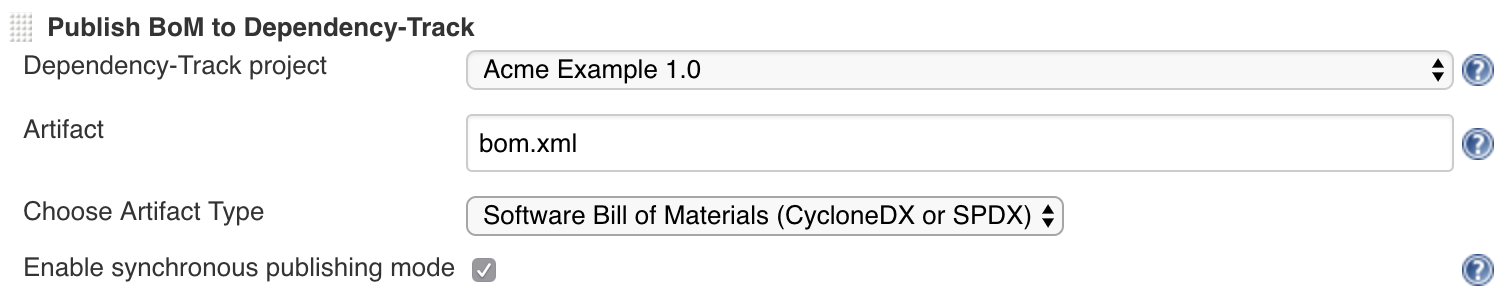
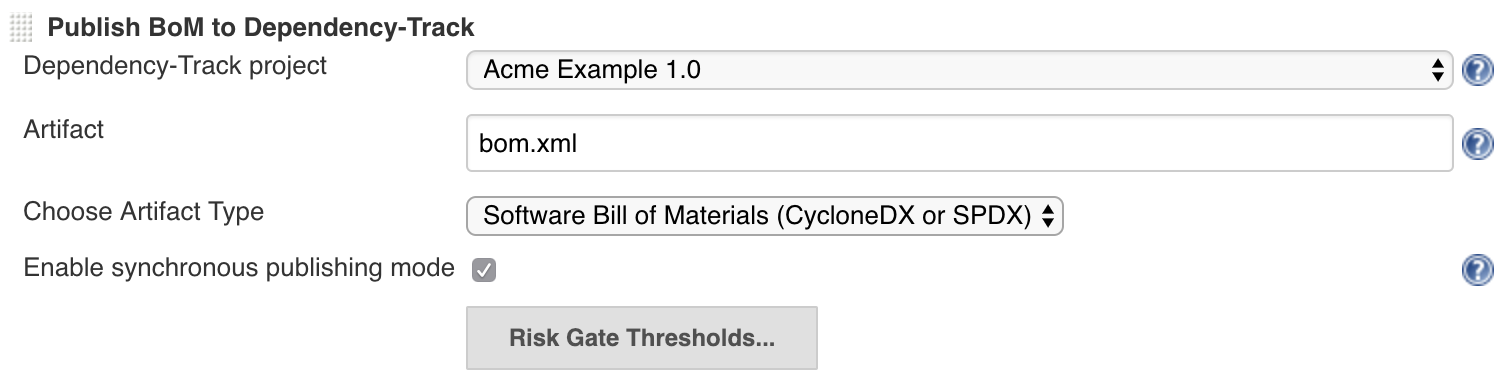
Updated docs for Jenkins 2.1.0 plugin

diff --git a/docs/_docs/integrations/jenkins.md b/docs/_docs/integrations/jenkins.md
@@ -20,7 +20,7 @@ displaying interactive job trends and per build findings.
 ### Job Configuration
 Once configured with a valid URL and API key, simply configure a job to publish the artifact.
 
-![System Configuration](/images/screenshots/jenkins-job-publish.png)
+![Job Publish Config](/images/screenshots/jenkins-job-publish.png)
 
 * **Dependency-Track project**: Specifies the unique project ID to upload scan results to. This dropdown will be
 automatically populated with a list of projects.
@@ -36,6 +36,18 @@ The results returned are identical to the auditable findings but exclude finding
 Analysis decisions and vulnerability details are included in the response. Synchronous mode is possible with 
 Dependency-Track v3.3.1 and higher.
   
+![Job Publish Thresholds](/images/screenshots/jenkins-job-thresholds.png)
+ 
+When Synchronous mode is enabled, thresholds can be defined which can optionally put the job into an UNSTABLE or FAILURE state.
+
+* **Total Findings**: Sets the threshold for the total number of critical, high, medium, or low severity findings 
+allowed. If the number of findings equals or is greater than the threshold for any one of the severities, the job status
+ will be changed to UNSTABLE or FAILURE.
+
+* **New Findings**: Sets the threshold for the number of new critical, high, medium, or low severity findings allowed. 
+If the number of new findings equals or is greater than the previous builds finding for any one of the severities, the 
+job status will be changed to UNSTABLE or FAILURE.
+ 
 ### Global Configuration
 To setup, navigate to **Jenkins &raquo; System Configuration** and complete the Dependency-Track section.
 